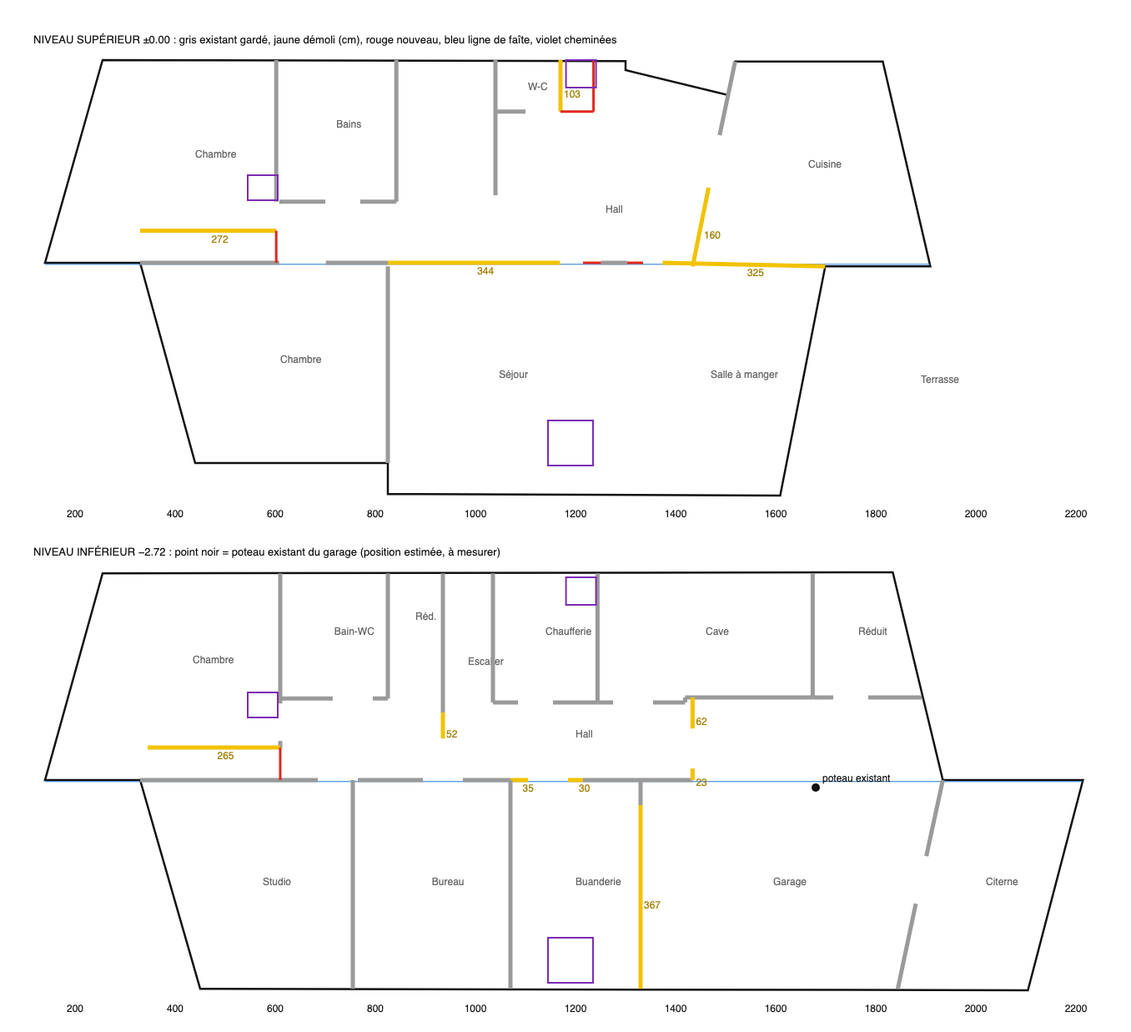
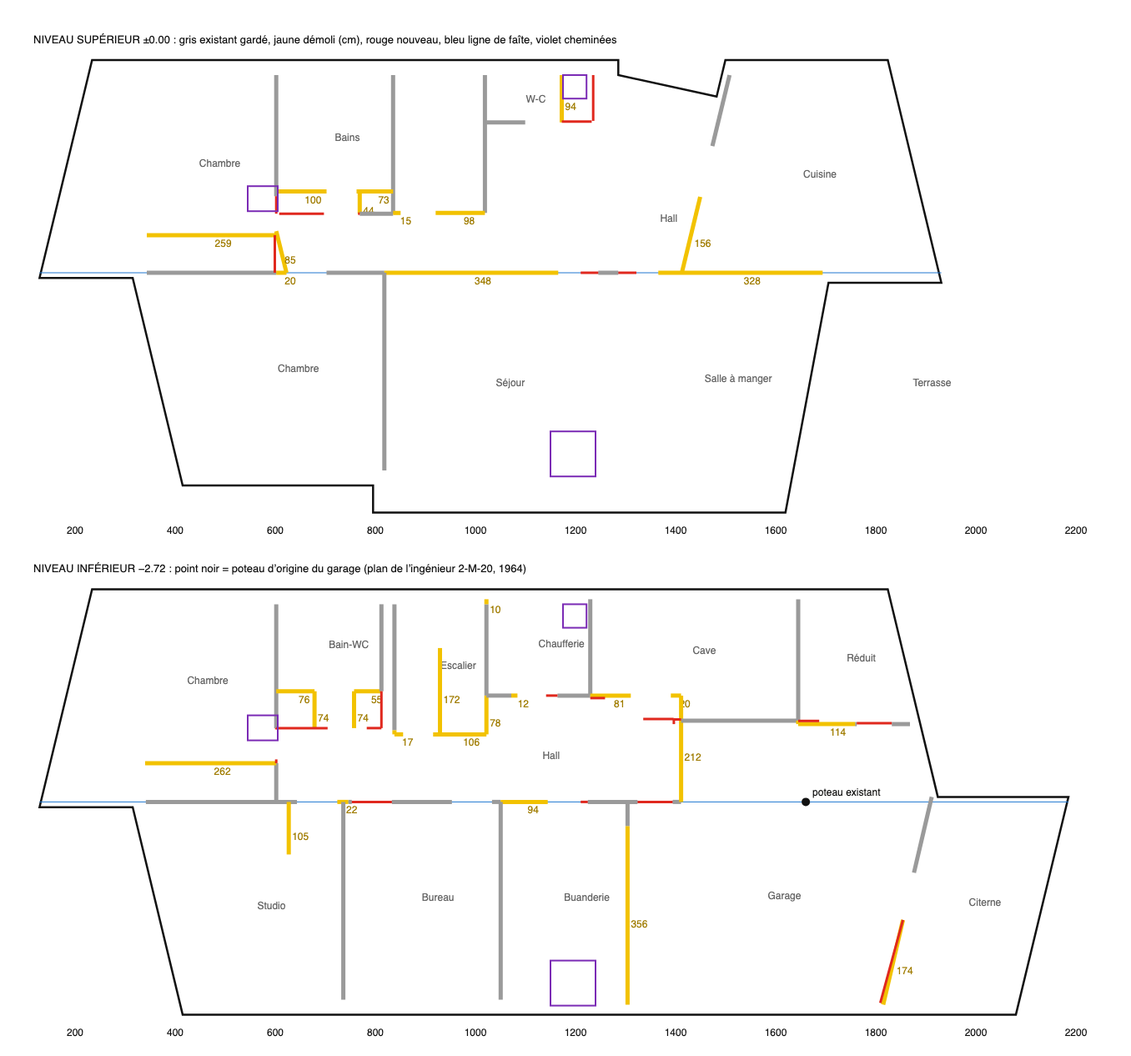
Update the public Galatry 3 site from the artifact

diff --git a/galatry/metre.html b/galatry/metre.html
@@ -284,17 +284,17 @@ footer{border-top:1px solid var(--rule);padding-top:14px;font-size:13px;color:va
 <section id="lot1">
   <div class="sec-head"><h2>1 · Démolitions et démontages</h2><span class="muted">CFC 112, 113, 211</span></div>
   <p class="muted">À faire après le diagnostic amiante (maison de 1964 : colles, fibrociment, conduites). Les murs porteurs se démolissent sous étais et avec leurs poutres posées (lot 2). Épaisseurs des plans de 1963–64 : à sonder.<br><span class="keys">Postes du devis : Murs intérieurs ouverts · Escalier ouvert sur la pièce de vie · Mur de la cheminée entre salon et salle à manger démoli · Cheminée d’angle du salon démontée avec son conduit · Nouveaux percements · Porte de 90 cm entre la salle familiale et l’atelier · Ancien chauffage déposé · Ancienne citerne à mazout, dégazée et sortie · Rez-de-chaussée, ancien sol déposé et chape neuve · Plafonds Fermacell du rez-de-chaussée</span></p>
-<div class="prog-wrap"><table class="prog metre"><thead><tr><th>Élément</th><th>Longueur</th><th>Hauteur</th><th>Épaisseur</th><th>Surface</th><th>Volume</th></tr></thead><tbody><tr class="sub"><td colspan="6">Murs intérieurs démolis (comparaison des plans d’aujourd’hui et du projet)</td></tr><tr class="sub"><td colspan="6">Rez-de-chaussée (±0.00), hauteur sous la pente du toit</td></tr><tr><td>Cloison</td><td class="num">0,20 m</td><td class="num">3,31 m</td><td>12 cm</td><td>0,7 m²</td><td>0,08 m³</td></tr><tr><td>Refend séjour–hall, sous le faîte (porteur : poutre faîtière C1)</td><td class="num">3,48 m</td><td class="num">3,32 m</td><td>15 cm</td><td>11,5 m²</td><td>1,73 m³</td></tr><tr><td>Refend salle à manger–cuisine, sous le faîte (porteur : poutre faîtière C2)</td><td class="num">3,28 m</td><td class="num">3,32 m</td><td>15 cm</td><td>10,9 m²</td><td>1,64 m³</td></tr><tr><td>Cloison nord-ouest entre les chambres (armoire de 60 cm)</td><td class="num">2,59 m</td><td class="num">3,11 m</td><td>12 cm</td><td>8,0 m²</td><td>0,96 m³</td></tr><tr><td>Mur biais cuisine–hall, sud (poutre C10 si la charpente l’exige)</td><td class="num">1,56 m</td><td class="num">3,11 m</td><td>12 cm</td><td>4,8 m²</td><td>0,58 m³</td></tr><tr><td>Mur est du W-C (le W-C s’agrandit sur l’ancien conduit de la chaudière)</td><td class="num">0,94 m</td><td class="num">2,37 m</td><td>10 cm</td><td>2,2 m²</td><td>0,22 m³</td></tr><tr><td>Cloison</td><td class="num">1,00 m</td><td class="num">2,87 m</td><td>12 cm</td><td>2,9 m²</td><td>0,35 m³</td></tr><tr><td>Cloison</td><td class="num">0,73 m</td><td class="num">2,87 m</td><td>12 cm</td><td>2,1 m²</td><td>0,25 m³</td></tr><tr><td>Cloison</td><td class="num">0,45 m</td><td class="num">2,93 m</td><td>12 cm</td><td>1,3 m²</td><td>0,16 m³</td></tr><tr><td>Cloison</td><td class="num">0,85 m</td><td class="num">3,20 m</td><td>12 cm</td><td>2,7 m²</td><td>0,33 m³</td></tr><tr><td>Cloison</td><td class="num">0,15 m</td><td class="num">2,99 m</td><td>12 cm</td><td>0,4 m²</td><td>0,05 m³</td></tr><tr><td>Cloison</td><td class="num">0,98 m</td><td class="num">2,99 m</td><td>12 cm</td><td>2,9 m²</td><td>0,35 m³</td></tr><tr><td>Mur au-dessus de la volée basse de l’escalier (x 9,35–10,40 m), sur toute la hauteur de la cage</td><td class="num">1,05 m</td><td class="num">3,00 m</td><td>12 cm</td><td>3,2 m²</td><td>0,38 m³</td></tr><tr><td>Porte et linteau en haut de la volée haute (≈ 0,93 m) : mur au-dessus de la porte</td><td class="num">0,93 m</td><td class="num">0,97 m</td><td>12 cm</td><td>0,9 m²</td><td>0,11 m³</td></tr><tr><td>Mur de la cheminée entre salon et salle à manger, pilier sous la poutre (poutre C9 si la charpente l’exige)</td><td class="num">1,57 m</td><td class="num">2,31 m</td><td>15 cm</td><td>3,6 m²</td><td>0,54 m³</td></tr><tr class="sub"><td colspan="6">Rez-inférieur (−2.72 brut), hauteur 2,47 m jusqu’à la dalle</td></tr><tr><td>Cloison</td><td class="num">0,22 m</td><td class="num">2,62 m</td><td>12 cm</td><td>0,6 m²</td><td>0,07 m³</td></tr><tr><td>Refend : entre deux portes, élargies en une de 1,45 m (linteau C4)</td><td class="num">0,94 m</td><td class="num">2,10 m</td><td>15 cm</td><td>2,0 m²</td><td>0,30 m³</td></tr><tr><td>Cloison nord-ouest de la chambre</td><td class="num">2,62 m</td><td class="num">2,62 m</td><td>12 cm</td><td>6,9 m²</td><td>0,82 m³</td></tr><tr><td>Cloison</td><td class="num">0,77 m</td><td class="num">2,62 m</td><td>12 cm</td><td>2,0 m²</td><td>0,24 m³</td></tr><tr><td>Cloison</td><td class="num">0,55 m</td><td class="num">2,62 m</td><td>12 cm</td><td>1,4 m²</td><td>0,17 m³</td></tr><tr><td>Cloison</td><td class="num">0,74 m</td><td class="num">2,62 m</td><td>12 cm</td><td>1,9 m²</td><td>0,23 m³</td></tr><tr><td>Cloison</td><td class="num">0,74 m</td><td class="num">2,62 m</td><td>12 cm</td><td>1,9 m²</td><td>0,23 m³</td></tr><tr><td>Bout de cloison au pied de l’escalier</td><td class="num">0,17 m</td><td class="num">2,62 m</td><td>12 cm</td><td>0,5 m²</td><td>0,05 m³</td></tr><tr><td>Cloison</td><td class="num">1,06 m</td><td class="num">2,62 m</td><td>12 cm</td><td>2,8 m²</td><td>0,33 m³</td></tr><tr><td>Cloison</td><td class="num">1,73 m</td><td class="num">2,62 m</td><td>12 cm</td><td>4,5 m²</td><td>0,54 m³</td></tr><tr><td>Cloison</td><td class="num">0,10 m</td><td class="num">2,62 m</td><td>12 cm</td><td>0,3 m²</td><td>0,03 m³</td></tr><tr><td>Cloison</td><td class="num">0,78 m</td><td class="num">2,62 m</td><td>12 cm</td><td>2,0 m²</td><td>0,24 m³</td></tr><tr><td>Cloison</td><td class="num">0,12 m</td><td class="num">2,62 m</td><td>12 cm</td><td>0,3 m²</td><td>0,04 m³</td></tr><tr><td>Cloison</td><td class="num">0,81 m</td><td class="num">2,62 m</td><td>12 cm</td><td>2,1 m²</td><td>0,25 m³</td></tr><tr><td>Cloison</td><td class="num">0,20 m</td><td class="num">2,62 m</td><td>12 cm</td><td>0,5 m²</td><td>0,06 m³</td></tr><tr><td>Mur garage–hall</td><td class="num">2,12 m</td><td class="num">2,62 m</td><td>12 cm</td><td>5,6 m²</td><td>0,67 m³</td></tr><tr><td>Cloison</td><td class="num">1,14 m</td><td class="num">2,62 m</td><td>12 cm</td><td>3,0 m²</td><td>0,36 m³</td></tr><tr><td>Cloison</td><td class="num">1,05 m</td><td class="num">2,62 m</td><td>12 cm</td><td>2,7 m²</td><td>0,33 m³</td></tr><tr><td>Mur garage–buanderie (50 cm gardés dans le pilier en L, option A)</td><td class="num">3,56 m</td><td class="num">2,62 m</td><td>25 cm</td><td>9,3 m²</td><td>2,33 m³</td></tr><tr><td>Cloison</td><td class="num">1,74 m</td><td class="num">2,62 m</td><td>12 cm</td><td>4,5 m²</td><td>0,55 m³</td></tr><tr class="tot"><td>Total murs intérieurs</td><td class="num">40,9 m</td><td class="num"></td><td></td><td>113,2 m²</td><td>15,6 m³</td></tr><tr class="sub"><td colspan="6">Percements et découpes dans les façades et les murs</td></tr><tr><td>Séjour, baie de 3,00 m (la fenêtre d’aujourd’hui) : allège de 0,85 m découpée jusqu’à 0,45 m, les 45 cm du bas gardés (façade sud)</td><td class="num">3,00 m</td><td class="num">0,40 m</td><td>30 cm</td><td>1,2 m²</td><td>0,36 m³</td></tr><tr><td>Salle à manger, nouvelle baie de 2,90 m dans le mur plein : 2,90 × 1,55 m, allège de 45 cm gardée (linteau C6a ; bandeau à sonder, secours C6b)</td><td class="num">2,90 m</td><td class="num">1,55 m</td><td>30 cm</td><td>4,5 m²</td><td>1,35 m³</td></tr><tr><td>Chambre parentale, porte-fenêtre de 2,00 m : allège de 0,85 m découpée (façade sud)</td><td class="num">2,00 m</td><td class="num">0,85 m</td><td>30 cm</td><td>1,7 m²</td><td>0,51 m³</td></tr><tr><td>Escalier, façade nord : allège de 1,19 m découpée sous le linteau existant, sur 1,45 m</td><td class="num">1,45 m</td><td class="num">1,19 m</td><td>30 cm</td><td>1,7 m²</td><td>0,52 m³</td></tr><tr><td>Atelier (ancienne citerne), nouvelle porte de 1,20 m, façade sud du rez-inférieur (linteau C7 ; mur peut-être en béton)</td><td class="num">1,20 m</td><td class="num">2,08 m</td><td>25 cm</td><td>2,5 m²</td><td>0,62 m³</td></tr><tr><td>Porte de 90 cm salle familiale–atelier : trappe de 70 × 70 cm agrandie, mur de 15 cm (linteau C8)</td><td class="num">0,90 m</td><td class="num">2,10 m</td><td>15 cm</td><td>1,4 m²</td><td>0,21 m³</td></tr><tr class="tot"><td>Total percements</td><td class="num"></td><td class="num"></td><td></td><td>13,0 m²</td><td>3,6 m³</td></tr><tr class="tot"><td>Total maçonnerie à démolir (en place)</td><td class="num"></td><td class="num"></td><td></td><td></td><td><b>19,2 m³</b></td></tr><tr><td>Gravats à évacuer (foisonnement ≈ 1,5)</td><td class="num"></td><td class="num"></td><td></td><td></td><td>≈ 29 m³</td></tr></tbody></table></div><div class="prog-wrap"><table class="prog metre"><thead><tr><th>Autres démontages</th><th>Quantité</th><th>Remarque</th></tr></thead><tbody><tr><td>Cheminée d’angle du salon : foyer, hotte, conduit du sol au toit, souche (≈ 0,90 × 0,90 m, sommet +3,75) et raccord de couverture</td><td>1</td><td>forfait</td></tr><tr><td>Ancien conduit de la chaudière, façade nord (souche ≈ 0,60 × 0,55 m) : à décider, le garder fermé ou le démolir avec un raccord de couverture</td><td>1</td><td>à décider</td></tr><tr><td>Sols du rez-de-chaussée : klinker Bonfol, tapis et chape (≈ 8 cm, du fini ±0.00 au brut −0.08)</td><td>113 m²</td><td>≈ 9 m³</td></tr><tr><td>Sols du rez-inférieur : revêtements et chape existante (≈ 10 cm, du fini −2.62 au brut −2.72), avant l’isolation de la dalle</td><td>143 m²</td><td>≈ 14 m³</td></tr><tr><td>Plafonds du rez-de-chaussée : lambris en cèdre déposé (en pente)</td><td>118 m²</td><td>avec ses lattes</td></tr><tr><td>Cuisine (15,7 m²), salle de bain du haut (6,8 m²), W-C et lavabo de son couloir, salle d’eau du bas (5,4 m²) : agencements, appareils, carrelages</td><td>4 pièces</td><td>démontage</td></tr><tr><td>Ancien chauffage : radiateurs, convecteurs au sol, conduites, chaudière à gaz de 2005 et son raccordement</td><td>1</td><td>forfait</td></tr><tr><td>Portes intérieures existantes (≈ 15) et armoires murales du hall</td><td>≈ 15</td><td>pièces</td></tr><tr><td>Ancienne citerne à mazout en acier (local sous la terrasse) : dégazage avec certificat, découpe sur place, évacuation</td><td>1</td><td>forfait</td></tr></tbody></table></div>
+<div class="prog-wrap"><table class="prog metre"><thead><tr><th>Élément</th><th>Longueur</th><th>Hauteur</th><th>Épaisseur</th><th>Surface</th><th>Volume</th></tr></thead><tbody><tr class="sub"><td colspan="6">Murs intérieurs démolis (comparaison des plans d’aujourd’hui et du projet)</td></tr><tr class="sub"><td colspan="6">Rez-de-chaussée (±0.00), hauteur sous la pente du toit</td></tr><tr><td>Cloison</td><td class="num">0,20 m</td><td class="num">3,31 m</td><td>12 cm</td><td>0,7 m²</td><td>0,08 m³</td></tr><tr><td>Refend séjour–hall, sous le faîte (porteur : poutre faîtière C1)</td><td class="num">3,48 m</td><td class="num">3,32 m</td><td>15 cm</td><td>11,5 m²</td><td>1,73 m³</td></tr><tr><td>Refend salle à manger–cuisine, sous le faîte (porteur : poutre faîtière C2)</td><td class="num">3,28 m</td><td class="num">3,32 m</td><td>15 cm</td><td>10,9 m²</td><td>1,64 m³</td></tr><tr><td>Cloison nord-ouest entre les chambres (armoire de 60 cm)</td><td class="num">2,59 m</td><td class="num">3,11 m</td><td>12 cm</td><td>8,0 m²</td><td>0,96 m³</td></tr><tr><td>Mur biais cuisine–hall, sud</td><td class="num">1,56 m</td><td class="num">3,11 m</td><td>12 cm</td><td>4,8 m²</td><td>0,58 m³</td></tr><tr><td>Mur est du W-C (le W-C s’agrandit sur l’ancien conduit de la chaudière)</td><td class="num">0,94 m</td><td class="num">2,37 m</td><td>10 cm</td><td>2,2 m²</td><td>0,22 m³</td></tr><tr><td>Cloison</td><td class="num">1,00 m</td><td class="num">2,87 m</td><td>12 cm</td><td>2,9 m²</td><td>0,35 m³</td></tr><tr><td>Cloison</td><td class="num">0,73 m</td><td class="num">2,87 m</td><td>12 cm</td><td>2,1 m²</td><td>0,25 m³</td></tr><tr><td>Cloison</td><td class="num">0,45 m</td><td class="num">2,93 m</td><td>12 cm</td><td>1,3 m²</td><td>0,16 m³</td></tr><tr><td>Cloison</td><td class="num">0,85 m</td><td class="num">3,20 m</td><td>12 cm</td><td>2,7 m²</td><td>0,33 m³</td></tr><tr><td>Cloison</td><td class="num">0,15 m</td><td class="num">2,99 m</td><td>12 cm</td><td>0,4 m²</td><td>0,05 m³</td></tr><tr><td>Cloison</td><td class="num">0,98 m</td><td class="num">2,99 m</td><td>12 cm</td><td>2,9 m²</td><td>0,35 m³</td></tr><tr><td>Mur au-dessus de la volée basse de l’escalier (x 9,35–10,40 m), sur toute la hauteur de la cage</td><td class="num">1,05 m</td><td class="num">3,00 m</td><td>12 cm</td><td>3,2 m²</td><td>0,38 m³</td></tr><tr><td>Porte et linteau en haut de la volée haute (≈ 0,93 m) : mur au-dessus de la porte</td><td class="num">0,93 m</td><td class="num">0,97 m</td><td>12 cm</td><td>0,9 m²</td><td>0,11 m³</td></tr><tr><td>Mur de la cheminée entre salon et salle à manger, pilier sous la poutre</td><td class="num">1,57 m</td><td class="num">2,31 m</td><td>15 cm</td><td>3,6 m²</td><td>0,54 m³</td></tr><tr class="sub"><td colspan="6">Rez-inférieur (−2.835 brut), hauteur 2,62 m jusqu’à la dalle</td></tr><tr><td>Cloison</td><td class="num">0,22 m</td><td class="num">2,62 m</td><td>12 cm</td><td>0,6 m²</td><td>0,07 m³</td></tr><tr><td>Refend : entre deux portes, élargies en une de 1,45 m (linteau C4)</td><td class="num">0,94 m</td><td class="num">2,10 m</td><td>15 cm</td><td>2,0 m²</td><td>0,30 m³</td></tr><tr><td>Cloison nord-ouest de la chambre</td><td class="num">2,62 m</td><td class="num">2,62 m</td><td>12 cm</td><td>6,9 m²</td><td>0,82 m³</td></tr><tr><td>Cloison</td><td class="num">0,77 m</td><td class="num">2,62 m</td><td>12 cm</td><td>2,0 m²</td><td>0,24 m³</td></tr><tr><td>Cloison</td><td class="num">0,55 m</td><td class="num">2,62 m</td><td>12 cm</td><td>1,4 m²</td><td>0,17 m³</td></tr><tr><td>Cloison</td><td class="num">0,74 m</td><td class="num">2,62 m</td><td>12 cm</td><td>1,9 m²</td><td>0,23 m³</td></tr><tr><td>Cloison</td><td class="num">0,74 m</td><td class="num">2,62 m</td><td>12 cm</td><td>1,9 m²</td><td>0,23 m³</td></tr><tr><td>Bout de cloison au pied de l’escalier</td><td class="num">0,17 m</td><td class="num">2,62 m</td><td>12 cm</td><td>0,5 m²</td><td>0,05 m³</td></tr><tr><td>Cloison</td><td class="num">1,06 m</td><td class="num">2,62 m</td><td>12 cm</td><td>2,8 m²</td><td>0,33 m³</td></tr><tr><td>Cloison</td><td class="num">1,73 m</td><td class="num">2,62 m</td><td>12 cm</td><td>4,5 m²</td><td>0,54 m³</td></tr><tr><td>Cloison</td><td class="num">0,10 m</td><td class="num">2,62 m</td><td>12 cm</td><td>0,3 m²</td><td>0,03 m³</td></tr><tr><td>Cloison</td><td class="num">0,78 m</td><td class="num">2,62 m</td><td>12 cm</td><td>2,0 m²</td><td>0,24 m³</td></tr><tr><td>Cloison</td><td class="num">0,12 m</td><td class="num">2,62 m</td><td>12 cm</td><td>0,3 m²</td><td>0,04 m³</td></tr><tr><td>Cloison</td><td class="num">0,81 m</td><td class="num">2,62 m</td><td>12 cm</td><td>2,1 m²</td><td>0,25 m³</td></tr><tr><td>Cloison</td><td class="num">0,20 m</td><td class="num">2,62 m</td><td>12 cm</td><td>0,5 m²</td><td>0,06 m³</td></tr><tr><td>Mur garage–hall</td><td class="num">2,12 m</td><td class="num">2,62 m</td><td>12 cm</td><td>5,6 m²</td><td>0,67 m³</td></tr><tr><td>Cloison</td><td class="num">1,14 m</td><td class="num">2,62 m</td><td>12 cm</td><td>3,0 m²</td><td>0,36 m³</td></tr><tr><td>Cloison</td><td class="num">1,05 m</td><td class="num">2,62 m</td><td>12 cm</td><td>2,7 m²</td><td>0,33 m³</td></tr><tr><td>Mur garage–buanderie (50 cm gardés dans le pilier en L, option A)</td><td class="num">3,56 m</td><td class="num">2,62 m</td><td>25 cm</td><td>9,3 m²</td><td>2,33 m³</td></tr><tr><td>Cloison</td><td class="num">1,74 m</td><td class="num">2,62 m</td><td>12 cm</td><td>4,5 m²</td><td>0,55 m³</td></tr><tr class="tot"><td>Total murs intérieurs</td><td class="num">40,9 m</td><td class="num"></td><td></td><td>113,2 m²</td><td>15,6 m³</td></tr><tr class="sub"><td colspan="6">Percements et découpes dans les façades et les murs</td></tr><tr><td>Séjour, baie de 3,00 m (la fenêtre d’aujourd’hui) : allège de 0,85 m découpée jusqu’à 0,45 m, les 45 cm du bas gardés (façade sud)</td><td class="num">3,00 m</td><td class="num">0,40 m</td><td>30 cm</td><td>1,2 m²</td><td>0,36 m³</td></tr><tr><td>Salle à manger, nouvelle baie de 2,90 m dans le mur plein : 2,90 × 1,55 m, allège de 45 cm gardée (linteau C6a ; bandeau à sonder, secours C6b)</td><td class="num">2,90 m</td><td class="num">1,55 m</td><td>30 cm</td><td>4,5 m²</td><td>1,35 m³</td></tr><tr><td>Chambre parentale, porte-fenêtre de 2,00 m : allège de 0,85 m découpée (façade sud)</td><td class="num">2,00 m</td><td class="num">0,85 m</td><td>30 cm</td><td>1,7 m²</td><td>0,51 m³</td></tr><tr><td>Escalier, façade nord : allège de 1,19 m découpée sous le linteau existant, sur 1,45 m</td><td class="num">1,45 m</td><td class="num">1,19 m</td><td>30 cm</td><td>1,7 m²</td><td>0,52 m³</td></tr><tr><td>Atelier (ancienne citerne), nouvelle porte de 1,20 m, façade sud du rez-inférieur (linteau C7 ; mur peut-être en béton)</td><td class="num">1,20 m</td><td class="num">2,08 m</td><td>25 cm</td><td>2,5 m²</td><td>0,62 m³</td></tr><tr><td>Porte de 90 cm salle familiale–atelier : trappe de 70 × 70 cm agrandie, mur de 15 cm (linteau C8)</td><td class="num">0,90 m</td><td class="num">2,10 m</td><td>15 cm</td><td>1,4 m²</td><td>0,21 m³</td></tr><tr class="tot"><td>Total percements</td><td class="num"></td><td class="num"></td><td></td><td>13,0 m²</td><td>3,6 m³</td></tr><tr class="tot"><td>Total maçonnerie à démolir (en place)</td><td class="num"></td><td class="num"></td><td></td><td></td><td><b>19,2 m³</b></td></tr><tr><td>Gravats à évacuer (foisonnement ≈ 1,5)</td><td class="num"></td><td class="num"></td><td></td><td></td><td>≈ 29 m³</td></tr></tbody></table></div><div class="prog-wrap"><table class="prog metre"><thead><tr><th>Autres démontages</th><th>Quantité</th><th>Remarque</th></tr></thead><tbody><tr><td>Cheminée d’angle du salon : foyer, hotte, conduit du sol au toit, souche (≈ 0,90 × 0,90 m, sommet +3,75) et raccord de couverture</td><td>1</td><td>forfait</td></tr><tr><td>Ancien conduit de la chaudière, façade nord (souche ≈ 0,60 × 0,55 m) : à décider, le garder fermé ou le démolir avec un raccord de couverture</td><td>1</td><td>à décider</td></tr><tr><td>Sols du rez-de-chaussée : klinker Bonfol, tapis et chape (≈ 8 cm, du fini ±0.00 au brut −0.08)</td><td>113 m²</td><td>≈ 9 m³</td></tr><tr><td>Sols du rez-inférieur : revêtements et chape existante (≈ 10,5 cm, du fini −2.73 au brut −2.835), avant l’isolation de la dalle</td><td>143 m²</td><td>≈ 15 m³</td></tr><tr><td>Plafonds du rez-de-chaussée : lambris en cèdre déposé (en pente)</td><td>118 m²</td><td>avec ses lattes</td></tr><tr><td>Cuisine (15,7 m²), salle de bain du haut (6,8 m²), W-C et lavabo de son couloir, salle d’eau du bas (5,4 m²) : agencements, appareils, carrelages</td><td>4 pièces</td><td>démontage</td></tr><tr><td>Ancien chauffage : radiateurs, convecteurs au sol, conduites, chaudière à gaz de 2005 et son raccordement</td><td>1</td><td>forfait</td></tr><tr><td>Portes intérieures existantes (≈ 15) et armoires murales du hall</td><td>≈ 15</td><td>pièces</td></tr><tr><td>Ancienne citerne à mazout en acier (local sous la terrasse) : dégazage avec certificat, découpe sur place, évacuation</td><td>1</td><td>forfait</td></tr></tbody></table></div>
 </section>
 <section id="lot2">
   <div class="sec-head"><h2>2 · Maçonnerie et structure</h2><span class="muted">CFC 211, 214</span></div>
-  <p class="muted">Pré-dimensionnement de la page <a href="statique.html">Statique</a> : l’ingénieur civil fixe les sections. Le sens de la charpente (pièces parallèles au faîte ou chevrons de l’égout au faîte) décide si C9 et C10 sont nécessaires.<br><span class="keys">Postes du devis : Murs intérieurs ouverts · Appui du faîte au milieu de la pièce de vie · Renforts de contreventement selon la vérification sismique de l’ingénieur · Mur de la cheminée entre salon et salle à manger démoli · Escalier ouvert sur la pièce de vie · Façade sud, 2 baies à soufflet · Nouveaux percements · Porte de 90 cm entre la salle familiale et l’atelier</span></p>
-<div class="prog-wrap"><table class="prog metre"><thead><tr><th>Élément</th><th>Section</th><th>Longueur</th></tr></thead><tbody><tr><td>C1 · poutre faîtière à la place du refend séjour–hall</td><td>GL24h 140 × 320 (ou 100 × 360, ou IPE 180)</td><td>≈ 3,5 m</td></tr><tr><td>C2 · poutre faîtière à la place du refend salle à manger–cuisine</td><td>GL24h 100 × 360 ou 140 × 320</td><td>≈ 3,3 m</td></tr><tr><td>C9 · poutre de toiture à la place du mur de la cheminée (si les pièces de charpente vont parallèlement au faîte)</td><td>GL24h 100 × 400 ou 120 × 360</td><td>≈ 4 m</td></tr><tr><td>C10 · poutre de toiture au-dessus des murs biais de la cuisine (même condition)</td><td>GL24h 100 × 320</td><td>≈ 3,5 m</td></tr><tr><td>C4 · linteau des deux portes élargies du refend inférieur (1,45 m)</td><td>IPE 160 + sommiers béton ≥ 18 cm</td><td>≈ 1,8 m</td></tr><tr><td>C5 · pilier en L gardé à l’angle nord-ouest du garage (retour 0,99 m + 0,50 m du mur de 25 cm)</td><td>existant gardé</td><td>—</td></tr><tr><td>C6a · linteau de la porte-fenêtre de 2,90 m (salle à manger)</td><td>GL24h 100 × 320, flèche ≤ 1/700</td><td>≈ 3,3 m</td></tr><tr><td>C6b · secours si l’allège du bandeau ne peut pas être coupée : poutre sous le bord de dalle</td><td>HEB 280</td><td>≈ 4,8 m</td></tr><tr><td>C7 · linteau de la porte de l’atelier (1,20 m)</td><td>IPE 120</td><td>≈ 1,6 m</td></tr><tr><td>C8 · linteau de la porte de 90 cm salle familiale–atelier</td><td>IPE 80 à 100</td><td>≈ 1,3 m</td></tr><tr><td>Trumeau de 1,20 m sous le faîte, gardé et prolongé (rez-de-chaussée)</td><td>maçonnerie</td><td>1,20 m</td></tr><tr><td>Contreventement selon la vérification sismique (SIA 269/8) : cadre acier, bout de mur ou panneaux sur les chevrons, ancrages toit–murs</td><td>provision</td><td>à définir</td></tr><tr><td>Étaiement pendant les démolitions (≈ 3 kN par étai, deux rangées tous les mètres)</td><td>location</td><td>durée des travaux</td></tr></tbody></table></div>
+  <p class="muted">Pré-dimensionnement de la page <a href="statique.html">Statique</a> : l’ingénieur civil fixe les sections. La charpente d’origine (chevrons acier IPE 140 de l’égout au faîte, tous les 2,40 m, dossier de l’ingénieur de 1964) ne demande pas d’autre poutre de toiture.<br><span class="keys">Postes du devis : Murs intérieurs ouverts · Appui du faîte au milieu de la pièce de vie · Renforts de contreventement selon la vérification sismique de l’ingénieur · Mur de la cheminée entre salon et salle à manger démoli · Escalier ouvert sur la pièce de vie · Façade sud, 2 baies à soufflet · Nouveaux percements · Porte de 90 cm entre la salle familiale et l’atelier</span></p>
+<div class="prog-wrap"><table class="prog metre"><thead><tr><th>Élément</th><th>Section</th><th>Longueur</th></tr></thead><tbody><tr><td>C1 · poutre faîtière à la place du refend séjour–hall</td><td>GL24h 140 × 320 (ou 100 × 360, ou IPE 180)</td><td>≈ 3,5 m</td></tr><tr><td>C2 · poutre faîtière à la place du refend salle à manger–cuisine</td><td>GL24h 100 × 360 ou 140 × 320</td><td>≈ 3,3 m</td></tr><tr><td>C4 · linteau des deux portes élargies du refend inférieur (1,45 m)</td><td>IPE 160 + sommiers béton ≥ 18 cm</td><td>≈ 1,8 m</td></tr><tr><td>C5 · pilier en L gardé à l’angle nord-ouest du garage (retour 0,99 m + 0,50 m du mur de 25 cm)</td><td>existant gardé</td><td>—</td></tr><tr><td>C6a · linteau de la porte-fenêtre de 2,90 m (salle à manger)</td><td>GL24h 100 × 320, flèche ≤ 1/700</td><td>≈ 3,3 m</td></tr><tr><td>C6b · secours si l’allège du bandeau ne peut pas être coupée : poutre sous le bord de dalle</td><td>HEB 280</td><td>≈ 4,8 m</td></tr><tr><td>C7 · linteau de la porte de l’atelier (1,20 m)</td><td>IPE 120</td><td>≈ 1,6 m</td></tr><tr><td>C8 · linteau de la porte de 90 cm salle familiale–atelier</td><td>IPE 80 à 100</td><td>≈ 1,3 m</td></tr><tr><td>Trumeau de 1,20 m sous le faîte, gardé et prolongé (rez-de-chaussée)</td><td>maçonnerie</td><td>1,20 m</td></tr><tr><td>Contreventement selon la vérification sismique (SIA 269/8) : cadre acier, bout de mur ou panneaux sur les chevrons, ancrages toit–murs</td><td>provision</td><td>à définir</td></tr><tr><td>Étaiement pendant les démolitions (≈ 3 kN par étai, deux rangées tous les mètres)</td><td>location</td><td>durée des travaux</td></tr></tbody></table></div>
 </section>
 <section id="lot3">
   <div class="sec-head"><h2>3 · Isolation du toit (charpentier)</h2><span class="muted">CFC 214</span></div>
   <p class="muted">Le toit n’est pas refait : tout se fait depuis l’intérieur, lambris déposé, juste avant le plafond.<br><span class="keys">Postes du devis : Toit isolé par l’intérieur</span></p>
-<div class="prog-wrap"><table class="prog metre m3"><thead><tr><th>Élément</th><th>Quantité</th><th>Remarque</th></tr></thead><tbody><tr><td>Isolation du toit par l’intérieur, entre et sous les chevrons, sous les deux pans</td><td>118 m²</td><td>surface en pente (pente 30 % dans le modèle, 27 % sur les coupes de 1964), même surface que les plafonds</td></tr><tr><td>Existant (CECB 2025) : environ 10 cm d’isolation entre chevrons</td><td>—</td><td>à garder ou remplacer selon l’état ; viser U ≤ 0,15 (subvention M-01)</td></tr><tr><td>Frein-vapeur continu, raccords étanches à l’air aux murs, aux poutres et aux traversées</td><td>118 m²</td><td>test d’étanchéité à l’air conseillé</td></tr><tr><td>Lattage sous chevrons pour le plafond Fermacell (lot 9)</td><td>118 m²</td><td></td></tr><tr><td>Couverture en fibrociment de 1998</td><td>gardée</td><td>pas de travaux sur le toit, sauf la souche de la cheminée et les crochets des panneaux</td></tr></tbody></table></div>
+<div class="prog-wrap"><table class="prog metre m3"><thead><tr><th>Élément</th><th>Quantité</th><th>Remarque</th></tr></thead><tbody><tr><td>Isolation du toit par l’intérieur, entre et sous les chevrons, sous les deux pans</td><td>118 m²</td><td>surface en pente (pente de 27 %, coupes de 1964), même surface que les plafonds</td></tr><tr><td>Existant (CECB 2025) : environ 10 cm d’isolation entre chevrons</td><td>—</td><td>à garder ou remplacer selon l’état ; viser U ≤ 0,15 (subvention M-01)</td></tr><tr><td>Frein-vapeur continu, raccords étanches à l’air aux murs, aux poutres et aux traversées</td><td>118 m²</td><td>test d’étanchéité à l’air conseillé</td></tr><tr><td>Lattage sous chevrons pour le plafond Fermacell (lot 9)</td><td>118 m²</td><td></td></tr><tr><td>Couverture en fibrociment de 1998</td><td>gardée</td><td>pas de travaux sur le toit, sauf la souche de la cheminée et les crochets des panneaux</td></tr></tbody></table></div>
 </section>
 <section id="lot4">
   <div class="sec-head"><h2>4 · Façades et échafaudage</h2><span class="muted">CFC 211, 226</span></div>
@@ -349,8 +349,8 @@ footer{border-top:1px solid var(--rule);padding-top:14px;font-size:13px;color:va
 <section id="hyp">
   <div class="sec-head"><h2>Hypothèses</h2></div>
   <ul class="muted">
-    <li>Niveaux : rez-inférieur brut −2,72, fini −2,62 ; dalle de 17 cm, dessous à −0,25 (coupe du 9.4.1964) ; rez-de-chaussée fini ±0,00. Hauteur sous plafond du rez-de-chaussée : 2,10 m aux façades, montant de 30 % vers le faîte (+3,50 dessus de toiture).</li>
-    <li>Épaisseurs : façades 25 cm de maçonnerie (plus 5–6 cm de doublage), refend 15 cm, mur garage–buanderie 25 cm, cloisons 12 cm (plans 1963–64, page Statique).</li>
+    <li>Niveaux (plans de 1964) : rez-inférieur fini −2,73, brut −2,835 (hall −2,70, garage −2,65 à −2,71) ; dalle de 14 cm, dessous à −0,22 ; rez-de-chaussée fini ±0,00, brut −0,08. Hauteur sous plafond du rez-de-chaussée : ≈ 2,06 m le long de la façade sud du séjour, ≈ 2,24 m le long de la façade nord, montant de 27 % vers le faîte (+3,64 dessus de toiture).</li>
+    <li>Épaisseurs (plans de 1964) : façades du rez-de-chaussée ≈ 30 cm (brique 18 + isolation 4,5 + doublage 4 + crépis), mur sud du séjour et de la salle à manger en béton armé de 15 cm ; rez-inférieur en béton armé de 18 cm au nord, à l’est et à l’ouest, brique de 18 cm au sud ; refend 12–13 cm de brique (15 cm enduits compris), mur garage–buanderie 25 cm, cloisons 9–12 cm (page Statique).</li>
     <li>Murs démolis : tracés d’aujourd’hui et du projet comparés pièce par pièce ; le mur de l’escalier et celui de la cheminée viennent des plans et de la maquette intérieure.</li>
     <li>Le terrassement, la terrasse côté lac, la piscine, le dressing et le parking sont des options : pas dans ce métré.</li>
   </ul>
